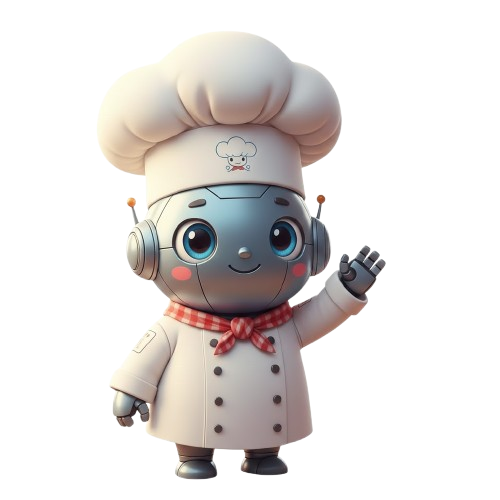
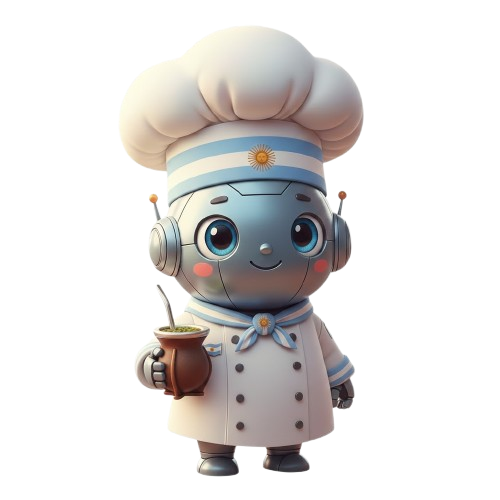
nueva foto del bot y mejoras en login y register

Changed region(s): [[0.18, 0.03, 0.78, 0.96], [0.33, 0.06, 0.42, 0.12], [0.27, 0.12, 0.3, 0.15]]

diff --git a/frontend/src/pages/Login.jsx b/frontend/src/pages/Login.jsx
@@ -36,7 +36,7 @@ const Login = () => {
   }, [user])
 
   return (
-    <section className="w-full min-h-screen containerLogin flex justify-center pt-10 pb-10 xl:pt-0 xl:pb-0 items-center containerLogin">
+    <section className="w-full min-h-screen containerLogin flex justify-center pt-20 pb-20 xl:pt-0 xl:pb-0 items-center containerLogin">
       <Back url={'/'} />
       {loginUserLoading ? <Loader /> : (
         <div className="flex flex-col xl:flex-row justify-between w-[320px] md:w-[600px] xl:w-[1000px] min-h-screen 2xl:w-[1200px] xl:min-h-[700px] shadow-[10px_10px_20px_5px_rgba(0,0,0,0.6)]">

diff --git a/frontend/src/pages/Register.jsx b/frontend/src/pages/Register.jsx
@@ -30,7 +30,7 @@ const Register = () => {
   }
 
   return (
-    <section className="w-full min-h-screen flex flex-col justify-center items-center pt-10 pb-10 xl:pt-0 xl:pb-0 bg-[#8a00c4]">
+    <section className="w-full min-h-screen flex flex-col justify-center items-center pt-20 pb-20 xl:pt-0 xl:pb-0 bg-[#8a00c4]">
       <Back url={'/'} />
       {registerUserLoading ? <Loader /> : (
         <div className="flex flex-col xl:flex-row justify-between w-[320px] md:w-[600px] xl:w-[1000px] min-h-screen 2xl:w-[1200px] xl:min-h-[700px] shadow-[10px_10px_20px_5px_rgba(0,0,0,0.6)]">
